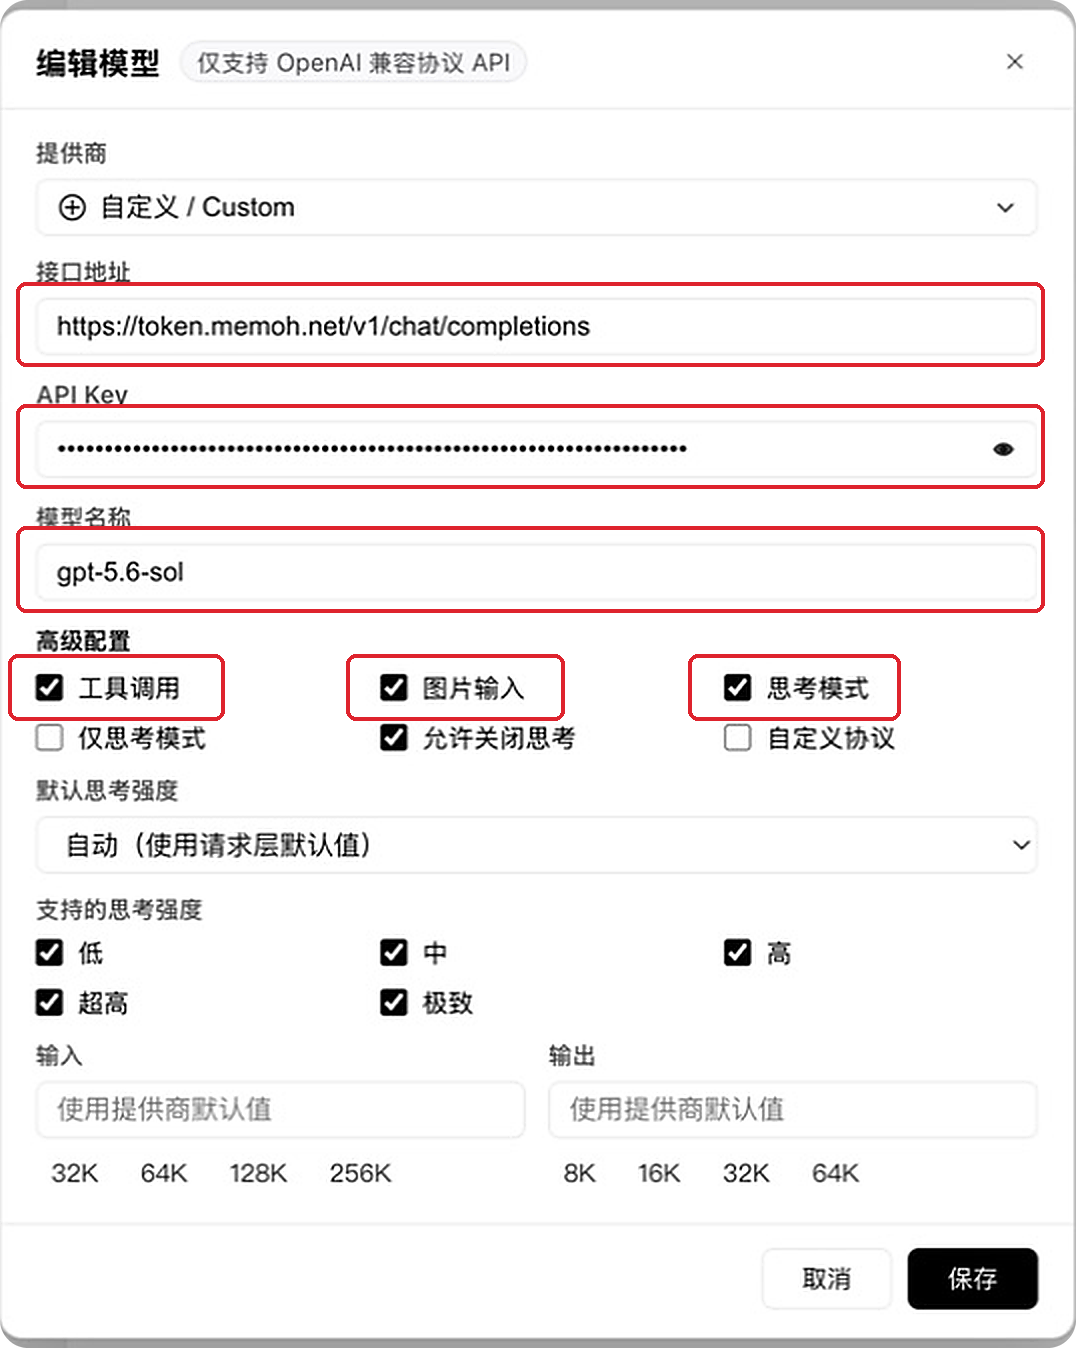
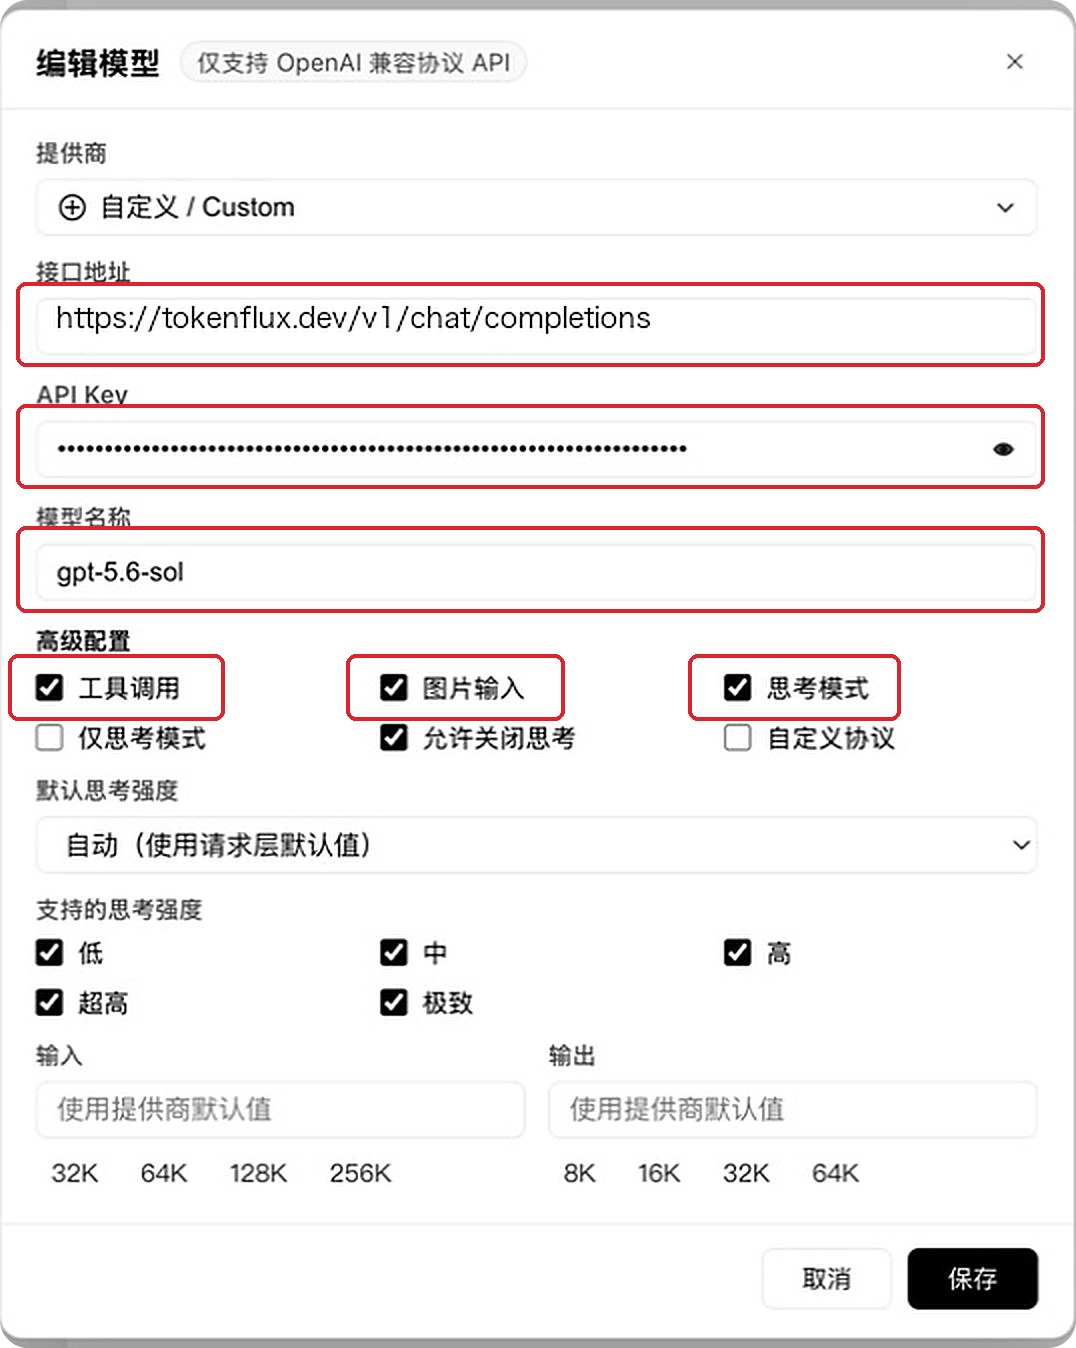
docs: deprecate mainland acceleration endpoint

Changed region(s): [[0.0307, 0.2181, 0.6134, 0.2493]]

diff --git a/docs/en/docs/tokenflux/endpoints.md b/docs/en/docs/tokenflux/endpoints.md
@@ -7,9 +7,13 @@ Most clients ask for an API address (base URL) during setup. This page lists eve
 | Purpose | OpenAI format | Anthropic format |
 | --- | --- | --- |
 | Default | `https://tokenflux.dev/v1` | `https://tokenflux.dev` |
-| Optimized for mainland China | `https://token.memoh.net/v1` | `https://token.memoh.net` |
+| Mainland acceleration (deprecated) | `https://token.memoh.net/v1` | `https://token.memoh.net` |
 
-Both sets are functionally identical, use the same API key, and can be swapped at any time.
+Use the default `tokenflux.dev` endpoints for new configurations. `token.memoh.net` is listed only to help identify and migrate existing configurations.
+
+::: tip Use the default endpoint for high request volume
+If your request volume is high, switch to the `tokenflux.dev` endpoint. The mainland acceleration endpoint is deprecated and can accumulate queued requests under that load, increasing time to first token.
+:::
 
 The default endpoints can also be copied with one click from the top of the [API keys page](https://tokenflux.dev/keys):
 
@@ -26,17 +30,14 @@ It depends on the client, not the model.
 
 If the client's setting is called `ANTHROPIC_BASE_URL`, use the Anthropic format. If it is `OPENAI_BASE_URL` or just `Base URL`, use the OpenAI format. Each integration guide spells out the exact value to enter.
 
-## Mainland China Endpoints
+## Deprecated Mainland Acceleration Endpoints
 
-`token.memoh.net` uses a network path tuned for mainland China, with lower latency and steadier connections.
+`token.memoh.net` is deprecated and should not be used for new configurations. If an existing configuration still uses it, switch to the corresponding default endpoint:
 
-- Functionally identical to the default endpoints, and the same API key works on both.
-- If the default endpoint is unreliable on a mainland network, switching usually helps.
-- Only the API address changes; the rest of your client configuration stays the same.
+- OpenAI format: `https://tokenflux.dev/v1`
+- Anthropic format: `https://tokenflux.dev`
 
-::: tip
-You can switch between the two sets at any time. Existing keys, quotas, and usage records are unaffected.
-:::
+Only the API address needs to change; the rest of the client configuration stays the same.
 
 ## Related Links
 

diff --git a/docs/docs/tokenflux/endpoints.md b/docs/docs/tokenflux/endpoints.md
@@ -7,9 +7,13 @@
 | 用途 | OpenAI 格式 | Anthropic 格式 |
 | --- | --- | --- |
 | 默认 | `https://tokenflux.dev/v1` | `https://tokenflux.dev` |
-| 中国大陆优化 | `https://token.memoh.net/v1` | `https://token.memoh.net` |
+| 国内加速（已废弃） | `https://token.memoh.net/v1` | `https://token.memoh.net` |
 
-两组端点功能完全一致，用的是同一个 API Key，可以随时切换。
+新配置请使用默认的 `tokenflux.dev` 端点。`token.memoh.net` 仅列于此处，方便识别和迁移已有配置。
+
+::: tip 请求量较大时请使用默认端点
+如果您的请求量很大，建议切换到 `tokenflux.dev` 端点。国内加速端点已废弃，且在上述情况下容易出现请求堆积，导致首字延迟升高。
+:::
 
 默认端点也能在 [API 密钥页面](https://tokenflux.dev/keys) 顶部直接一键复制：
 
@@ -26,17 +30,14 @@
 
 如果客户端配置项里写的是 `ANTHROPIC_BASE_URL`，用 Anthropic 格式；写 `OPENAI_BASE_URL` 或 `Base URL` 的，一般用 OpenAI 格式。具体填法各接入教程里都有写明。
 
-## 中国大陆优化端点
+## 已废弃的国内加速端点
 
-`token.memoh.net` 针对中国大陆网络做了链路优化，延迟更低、连接更稳定。
+`token.memoh.net` 已废弃，不建议继续用于新配置。现有配置如仍在使用该地址，请改为对应格式的默认端点：
 
-- 与默认端点功能一致，同一个 API Key 通用。
-- 大陆网络下访问默认端点不稳定时，换成这组通常能改善。
-- 换端点只需改客户端里的 API 地址，其他配置不用动。
+- OpenAI 格式：`https://tokenflux.dev/v1`
+- Anthropic 格式：`https://tokenflux.dev`
 
-::: tip
-两组端点都可以随时切换，不影响已有的密钥、额度和用量统计。
-:::
+切换时只需修改客户端中的 API 地址，其他配置不用改。
 
 ## 相关入口
 

diff --git a/docs/en/docs/quickstart.md b/docs/en/docs/quickstart.md
@@ -5,7 +5,7 @@ TokenFlux is a model gateway: one API key lets you call models from many provide
 This page maps out the route. Three steps and you are running.
 
 ::: tip Access Note
-Some content on this site or related services may require a proxy before access works reliably. On mainland China networks, try the [optimized endpoints](/en/docs/tokenflux/endpoints).
+Some content on this site or related services may require a proxy before access works reliably. Use the default `tokenflux.dev` endpoint for API requests; the former mainland acceleration endpoint is deprecated.
 :::
 
 ::: details For AGENTS
@@ -67,5 +67,5 @@ Once things work, these may be useful:
 ## Troubleshooting
 
 - [FAQ](/en/docs/faq) - connection drops, model detection, and other common questions
-- [API Endpoints](/en/docs/tokenflux/endpoints) - choosing an endpoint and the mainland China route
+- [API Endpoints](/en/docs/tokenflux/endpoints) - choosing an endpoint and migrating from deprecated routes
 - [Usage Policy](/en/docs/tos/usage-policy) - what gets accounts banned

diff --git a/docs/docs/agents/workbuddy.md b/docs/docs/agents/workbuddy.md
@@ -76,7 +76,6 @@ WorkBuddy 会在模型页面显示实际的本地配置文件路径。WorkBuddy 
 | --- | --- |
 | 提供商 | `自定义 / Custom` |
 | 接口地址 | `https://tokenflux.dev/v1/chat/completions` |
-| 中国大陆优化接口 | `https://token.memoh.net/v1/chat/completions` |
 | API Key | 你的 TokenFlux API Key |
 | 模型名称 | 模型广场显示的精确模型 ID，例如 `gpt-5.6-sol` |
 | 工具调用 | 开启；本教程使用的 `gpt-5.6-sol` 支持 Tool Calling |

diff --git a/docs/en/docs/agents/workbuddy.md b/docs/en/docs/agents/workbuddy.md
@@ -76,7 +76,6 @@ Then complete the form:
 | --- | --- |
 | Provider | `Custom` |
 | Endpoint | `https://tokenflux.dev/v1/chat/completions` |
-| Mainland China endpoint | `https://token.memoh.net/v1/chat/completions` |
 | API Key | Your TokenFlux API key |
 | Model Name | The exact model ID from the marketplace, such as `gpt-5.6-sol` |
 | Tool Calling | Enable it; `gpt-5.6-sol`, used in this guide, supports tool calling |
